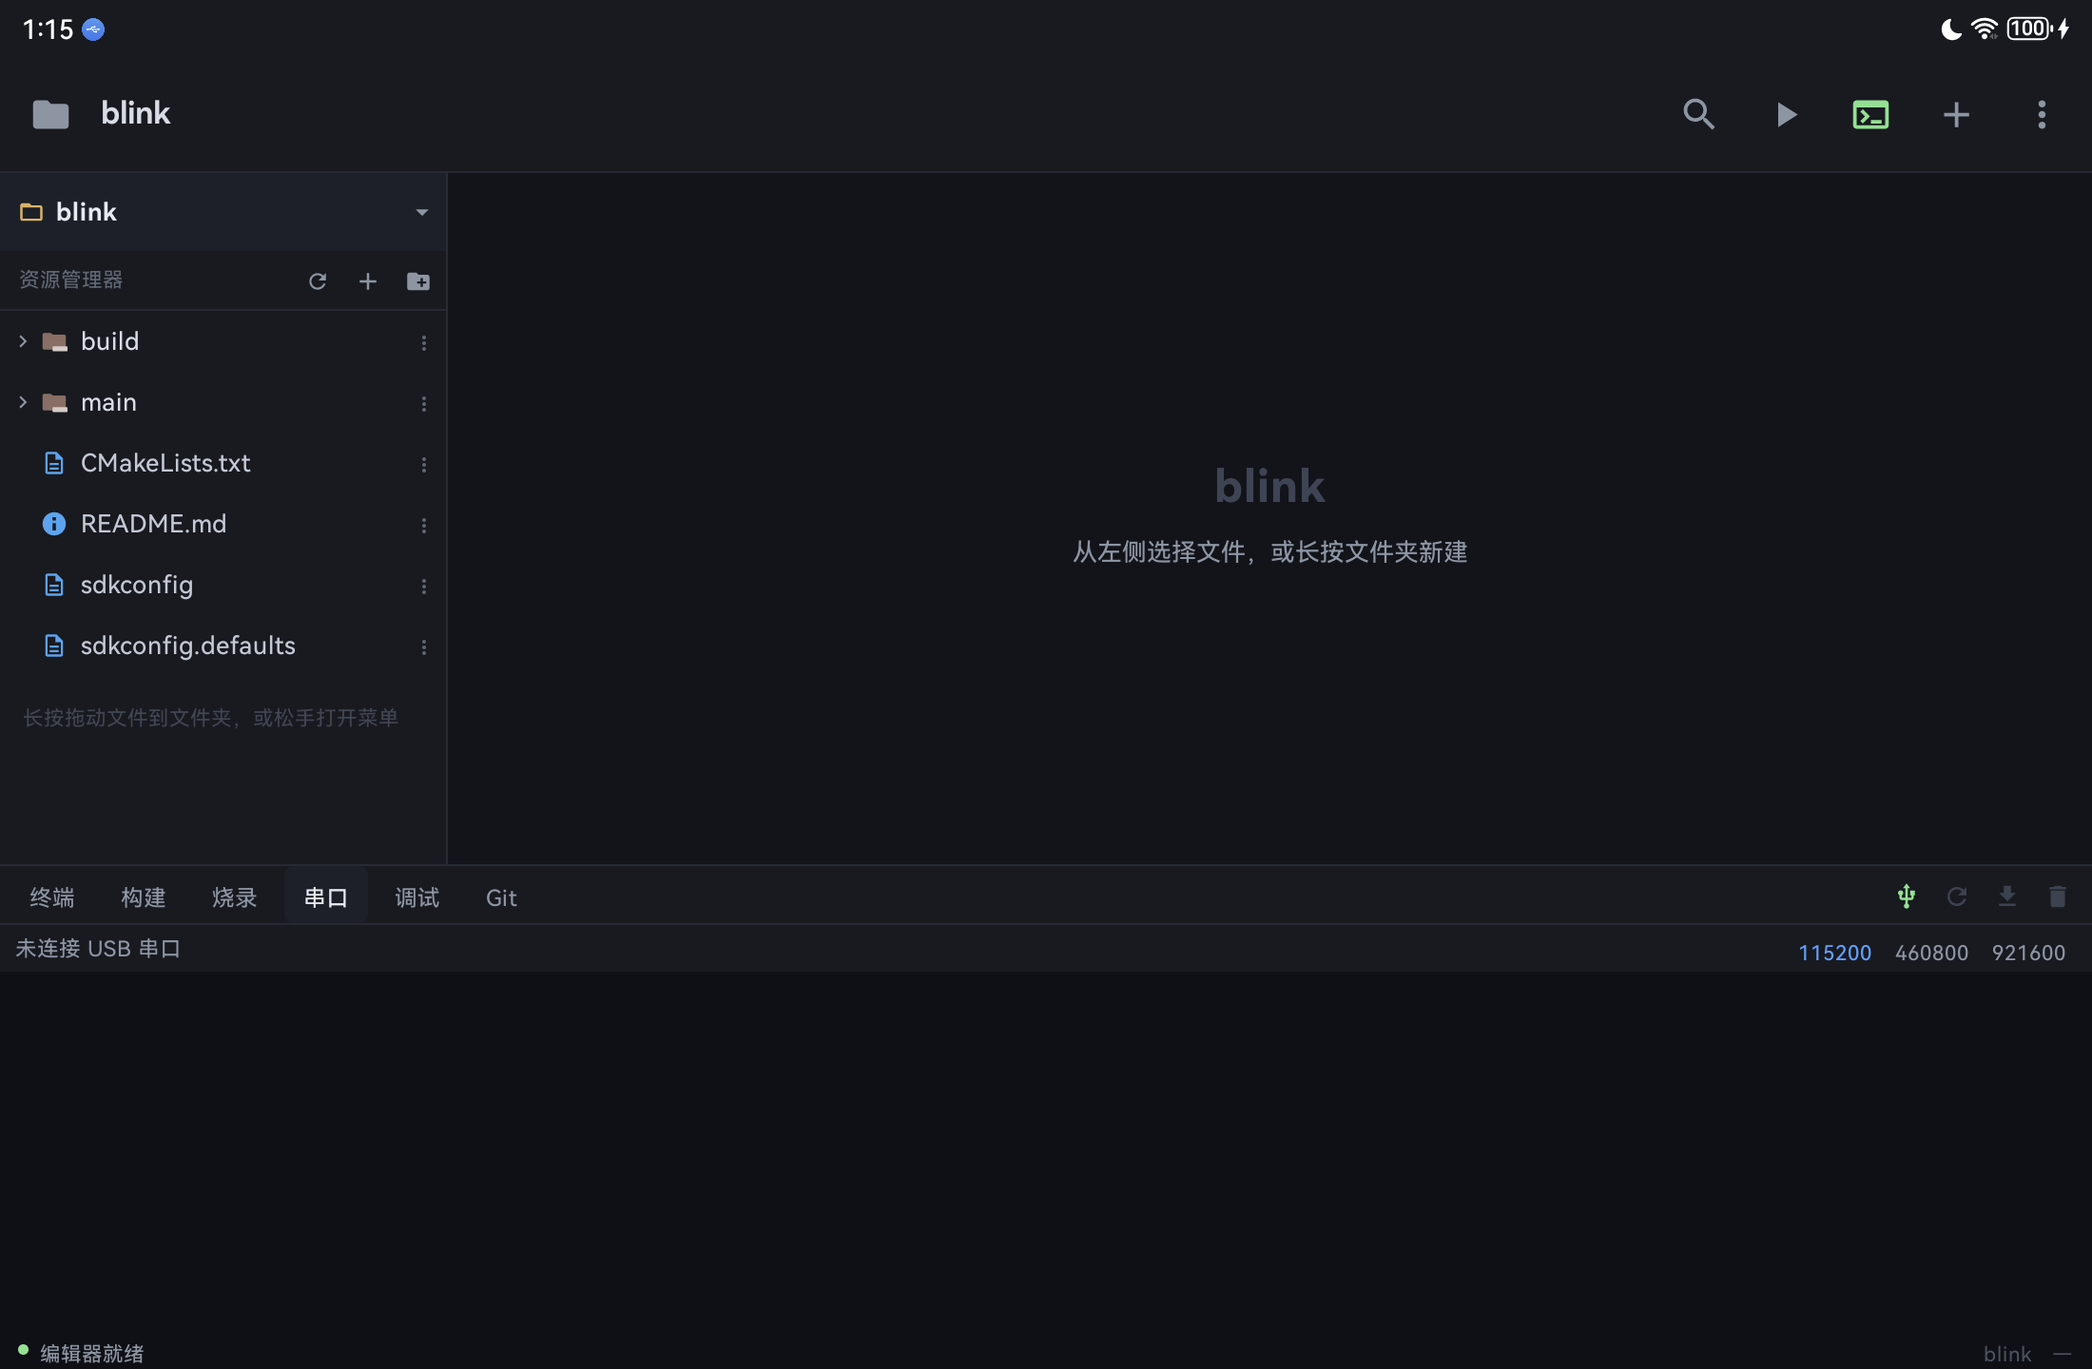
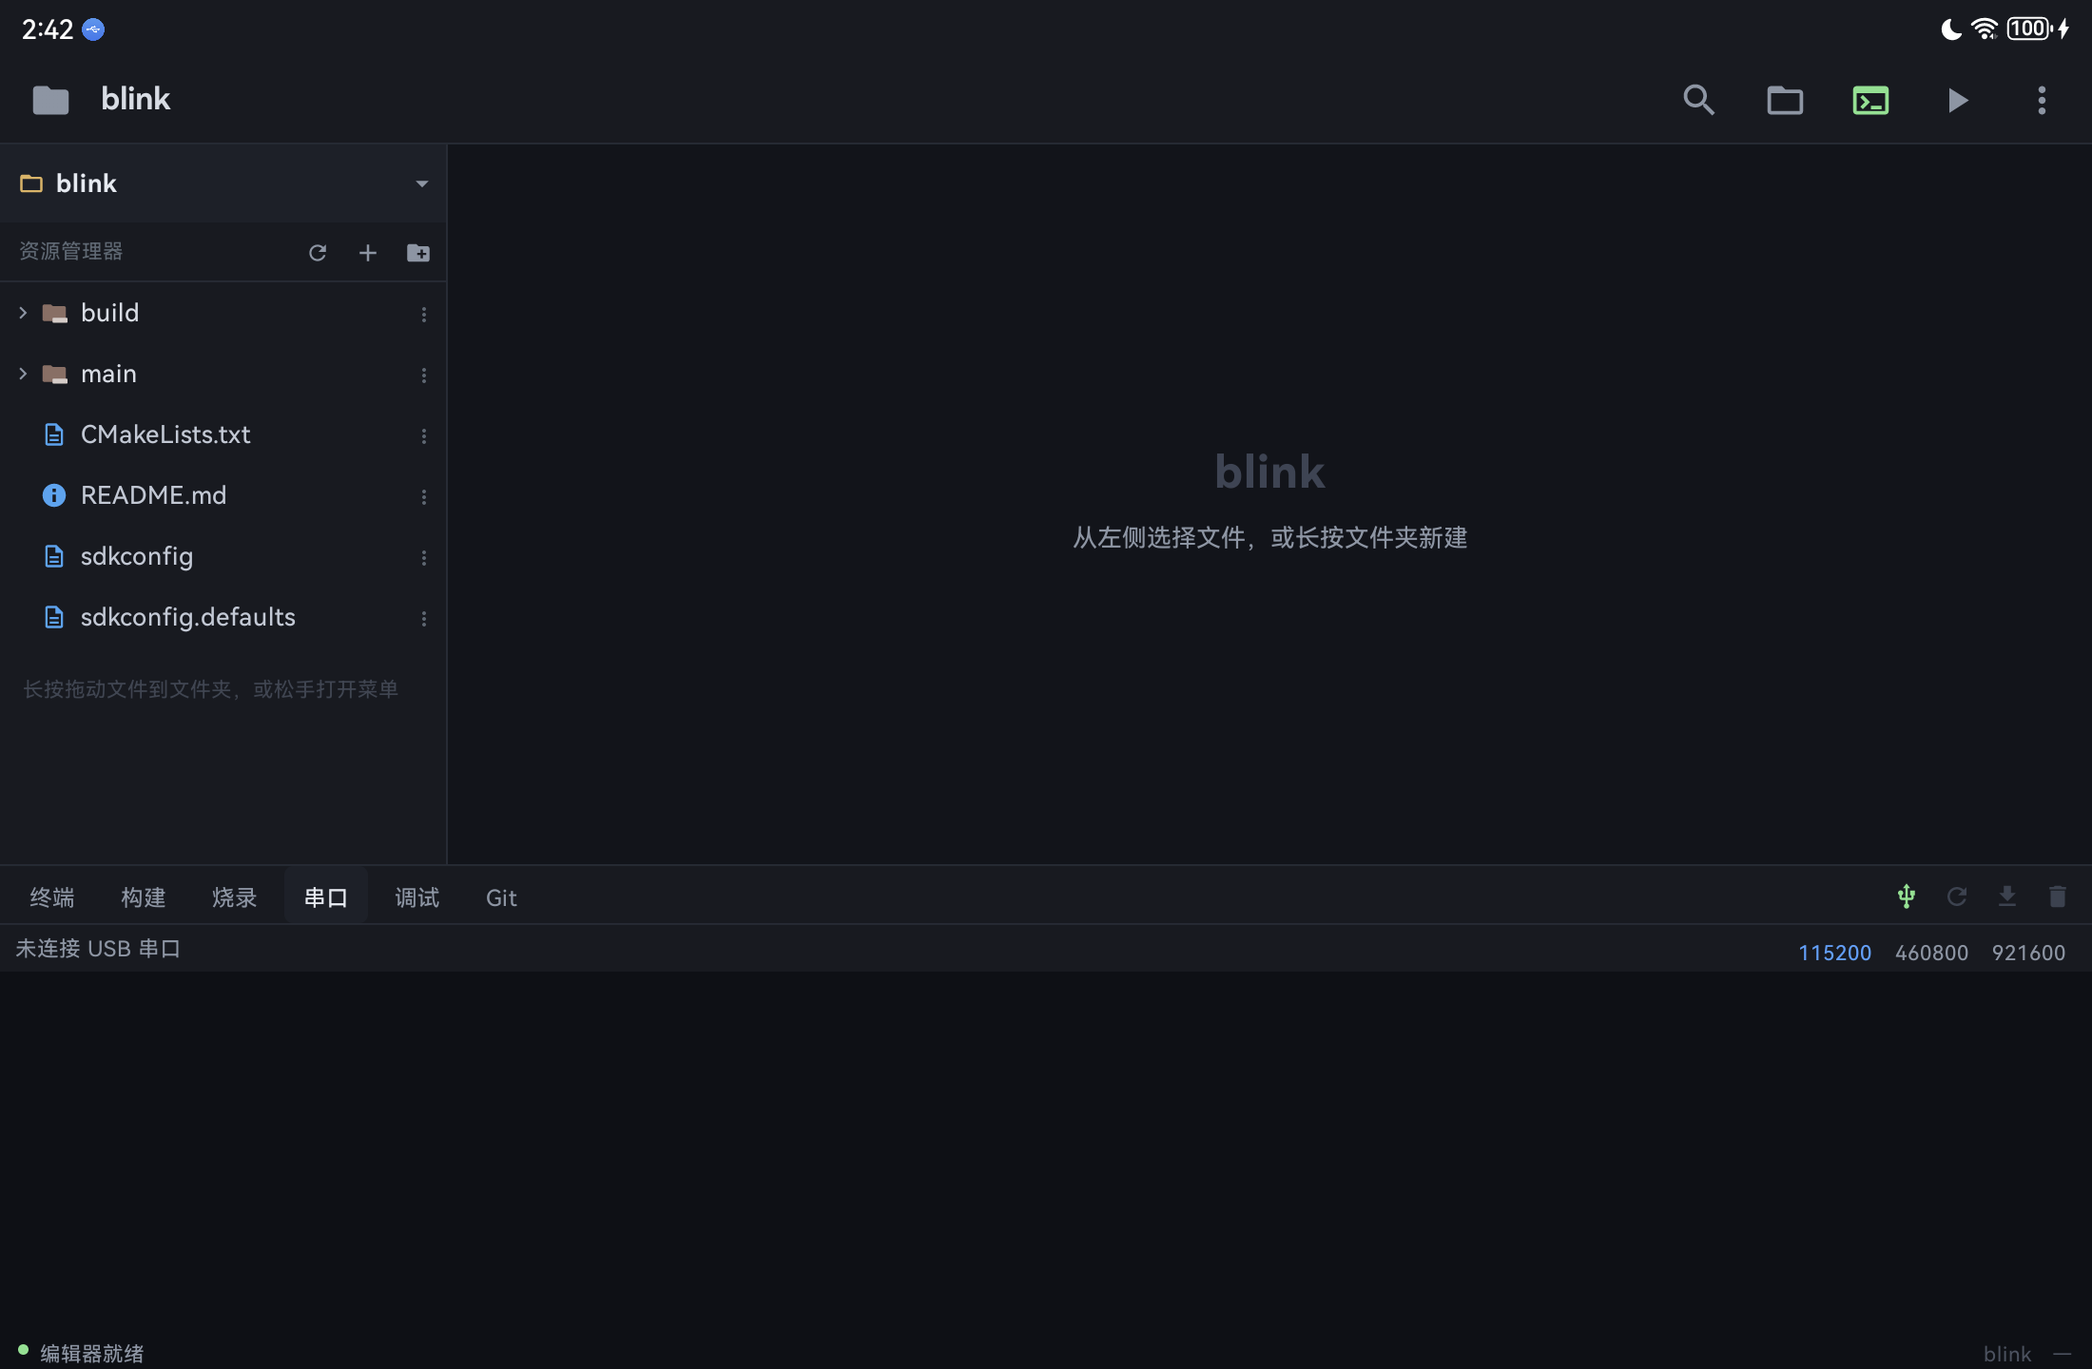
UI 对齐 CodePad v4.7：单行标题 / 48dp 顶栏 / 工程菜单 / 单行终端提示符
- TopAppBar 高度 48dp，标题改单行（文件名 + 未保存点 + 工程名），去掉第二行
- 新增工程菜单（📁）：工程列表 + 新建/导入/导出/重命名/删除工程；
  这些项从「更多」里移除，避免两处重复
- 顶栏动作顺序对齐 CodePad：搜索 · 工程 · 保存(有文件才出现) · 终端 · 构建/停止 · 更多；
  去掉顶栏的「＋ 新建文件」（仍在「更多」里）
- 终端提示符改成单行 ❯ ~/projects/xxx [git]（原两行 ╭─ ╰─ 框线会多出一个箭头）
- Dock 终端动作图标换成 DeleteSweep / RestartAlt，语义更清楚
- 工程模板 README 里过时的「右上角 🔨/⚡」改成「顶栏 ▶ / 底部烧录面板 ⚡」
- docs/HANDOFF.md 同步 UI 约定；截图全部按新界面重拍

diff --git a/app/src/main/java/com/espforge/ide/Ui.kt b/app/src/main/java/com/espforge/ide/Ui.kt
@@ -45,6 +45,8 @@ import androidx.compose.material.icons.filled.ArrowDropDown
 import androidx.compose.material.icons.filled.Close
 import androidx.compose.material.icons.filled.CreateNewFolder
 import androidx.compose.material.icons.filled.Delete
+import androidx.compose.material.icons.filled.DeleteSweep
+import androidx.compose.material.icons.filled.RestartAlt
 import androidx.compose.material.icons.filled.Description
 import androidx.compose.material.icons.filled.Folder
 import androidx.compose.material.icons.filled.FolderOpen
@@ -172,6 +174,7 @@ fun IdeScreen(c: IdeController) {
         snackbarHost = { SnackbarHost(snackbar) },
         topBar = {
             TopAppBar(
+                expandedHeight = 48.dp,
                 colors = TopAppBarDefaults.topAppBarColors(
                     containerColor = Panel,
                     titleContentColor = Color(0xFFD7DCE5),
@@ -310,34 +313,32 @@ fun IdeScreen(c: IdeController) {
                             }
                         }
                     } else {
-                        Column {
-                            Row(verticalAlignment = Alignment.CenterVertically) {
-                                Text(
-                                    text = c.active?.name ?: (c.project?.name ?: "EspForge"),
-                                    fontSize = 15.sp,
-                                    fontWeight = FontWeight.SemiBold,
-                                    maxLines = 1,
-                                    overflow = TextOverflow.Ellipsis,
+                        // 单行标题（对齐 CodePad v4.7）：文件名 + 未保存点 + 工程名
+                        Row(verticalAlignment = Alignment.CenterVertically) {
+                            Text(
+                                text = c.active?.name ?: (c.project?.name ?: "EspForge"),
+                                fontSize = 15.sp,
+                                fontWeight = FontWeight.SemiBold,
+                                maxLines = 1,
+                                overflow = TextOverflow.Ellipsis,
+                                modifier = Modifier.weight(1f, fill = false),
+                            )
+                            if (c.dirty) {
+                                Box(
+                                    Modifier
+                                        .padding(start = 6.dp)
+                                        .size(7.dp)
+                                        .background(Accent, RoundedCornerShape(50))
                                 )
-                                if (c.dirty) {
-                                    Box(
-                                        Modifier
-                                            .padding(start = 6.dp)
-                                            .size(7.dp)
-                                            .background(Accent, RoundedCornerShape(50))
-                                    )
-                                }
-                                if (c.active != null) {
-                                    Spacer(Modifier.width(8.dp))
-                                    Text(c.activeLang?.name ?: "", fontSize = 11.sp, color = Muted)
-                                }
                             }
-                            if (c.active != null) {
+                            if (c.active != null && !c.project?.name.isNullOrBlank()) {
+                                Spacer(Modifier.width(8.dp))
                                 Text(
                                     text = c.project?.name ?: "",
-                                    fontSize = 10.sp,
+                                    fontSize = 11.sp,
                                     color = Color(0xFF5C6773),
                                     maxLines = 1,
+                                    overflow = TextOverflow.Ellipsis,
                                 )
                             }
                         }
@@ -357,13 +358,58 @@ fun IdeScreen(c: IdeController) {
                             tint = if (c.searchOpen) Green else idle,
                         )
                     }
-                    if (c.building) {
-                        IconButton(onClick = { c.stopBuild() }) {
-                            Icon(Icons.Filled.Stop, contentDescription = "停止构建", tint = Green)
+                    // 工程菜单（对齐 CodePad v4.7）：工程列表 + 新建/导入/导出/重命名/删除
+                    Box {
+                        var projectOpen by remember { mutableStateOf(false) }
+                        IconButton(onClick = { projectOpen = true }) {
+                            Icon(
+                                Icons.Filled.FolderOpen,
+                                contentDescription = "工程",
+                                tint = if (projectOpen) Green else idle,
+                            )
                         }
-                    } else {
-                        IconButton(onClick = { c.build() }) {
-                            Icon(Icons.Filled.PlayArrow, contentDescription = "构建", tint = idle)
+                        DropdownMenu(expanded = projectOpen, onDismissRequest = { projectOpen = false }) {
+                            c.projects.forEach { p ->
+                                DropdownMenuItem(
+                                    text = {
+                                        Row(verticalAlignment = Alignment.CenterVertically) {
+                                            Icon(
+                                                if (p.id == c.project?.id) Icons.Filled.FolderOpen else Icons.Filled.Folder,
+                                                null,
+                                                tint = if (p.id == c.project?.id) Green else Muted,
+                                                modifier = Modifier.size(14.dp),
+                                            )
+                                            Spacer(Modifier.width(8.dp))
+                                            Text(p.name, fontSize = 13.sp)
+                                        }
+                                    },
+                                    onClick = {
+                                        projectOpen = false
+                                        if (p.id != c.project?.id) c.switchProject(p)
+                                    },
+                                )
+                            }
+                            HorizontalDivider(color = Stroke)
+                            DropdownMenuItem(
+                                text = { Text("新建工程…") },
+                                onClick = { projectOpen = false; c.openDialog("newProject") },
+                            )
+                            DropdownMenuItem(
+                                text = { Text("导入工程（zip）") },
+                                onClick = { projectOpen = false; c.startImport() },
+                            )
+                            DropdownMenuItem(
+                                text = { Text("导出当前工程（zip）") },
+                                onClick = { projectOpen = false; c.startExport() },
+                            )
+                            DropdownMenuItem(
+                                text = { Text("重命名当前工程…") },
+                                onClick = { projectOpen = false; c.openDialog("renameProject") },
+                            )
+                            DropdownMenuItem(
+                                text = { Text("删除当前工程…") },
+                                onClick = { projectOpen = false; c.openDialog("deleteProject") },
+                            )
                         }
                     }
                     // 保存只在打开了文件时出现，避免点了没反应
@@ -382,8 +428,14 @@ fun IdeScreen(c: IdeController) {
                             tint = if (c.showTerminal) Green else idle,
                         )
                     }
-                    IconButton(onClick = { c.openDialog("newFile", c.project?.dir) }) {
-                        Icon(Icons.Filled.Add, contentDescription = "新建文件", tint = idle)
+                    if (c.building) {
+                        IconButton(onClick = { c.stopBuild() }) {
+                            Icon(Icons.Filled.Stop, contentDescription = "停止构建", tint = Green)
+                        }
+                    } else {
+                        IconButton(onClick = { c.build() }) {
+                            Icon(Icons.Filled.PlayArrow, contentDescription = "构建", tint = idle)
+                        }
                     }
                     Box {
                         IconButton(onClick = { menuOpen = true }) {
@@ -418,18 +470,6 @@ fun IdeScreen(c: IdeController) {
                             DropdownMenuItem(
                                 text = { Text("选择目标芯片…（" + c.chipLabel() + "）") },
                                 onClick = { menuOpen = false; c.openDialog("chip") },
-                            )
-                            DropdownMenuItem(
-                                text = { Text("导出工程（zip）") },
-                                onClick = { menuOpen = false; c.startExport() },
-                            )
-                            DropdownMenuItem(
-                                text = { Text("导入工程（zip）") },
-                                onClick = { menuOpen = false; c.startImport() },
-                            )
-                            DropdownMenuItem(
-                                text = { Text("新建工程") },
-                                onClick = { menuOpen = false; c.openDialog("newProject") },
                             )
                             DropdownMenuItem(
                                 text = { Text("ESP-IDF 资源包…") },
@@ -981,8 +1021,8 @@ private fun BottomDock(c: IdeController, panelHeight: Int) {
             // 每个 Tab 的右侧动作统一：28dp 图标、16dp、只有图标没有文字，
             // 主操作在左、危险操作(关闭/断开/停止)在右且用红色。
             if (c.bottomTab == TERMINAL_TAB) {
-                DockAction(Icons.Filled.Delete, "清屏") { c.clearTerminal() }
-                DockAction(Icons.Filled.Refresh, "重启会话") { c.restartTerminal() }
+                DockAction(Icons.Filled.DeleteSweep, "清屏") { c.clearTerminal() }
+                DockAction(Icons.Filled.RestartAlt, "重启会话") { c.restartTerminal() }
                 DockAction(Icons.Filled.Close, "关闭面板") { c.showTerminal = false }
             } else if (c.bottomTab == BUILD_TAB) {
                 DockAction(Icons.Filled.PlayArrow, "构建", Green) { c.build() }

diff --git a/app/src/main/java/com/espforge/ide/IdeController.kt b/app/src/main/java/com/espforge/ide/IdeController.kt
@@ -1284,8 +1284,7 @@ class IdeController(private val activity: MainActivity) {
             |  esac
             |}
             |
-            |PS1="${'$'}{__esc}[38;5;39m╭─${'$'}{__esc}[0m ${'$'}{__esc}[38;5;244m\${'$'}(date +%H:%M)${'$'}{__esc}[0m ${'$'}{__esc}[38;5;81m${'$'}{CODEPAD_PROJECT}${'$'}{__esc}[0m ${'$'}{__esc}[38;5;250m\${'$'}(__cp_path)${'$'}{__esc}[0m${'$'}{__esc}[38;5;36m\${'$'}(__cp_git)${'$'}{__esc}[0m
-            |${'$'}{__esc}[38;5;41m╰─❯${'$'}{__esc}[0m "
+            |PS1="${'$'}{__esc}[38;5;41m❯${'$'}{__esc}[0m ${'$'}{__esc}[38;5;250m\${'$'}(__cp_path)${'$'}{__esc}[0m${'$'}{__esc}[38;5;36m\${'$'}(__cp_git)${'$'}{__esc}[0m "
             |
             |alias ls='ls --color=auto'
             |alias ll='ls -l'

diff --git a/app/src/main/java/com/espforge/ide/fs/Templates.kt b/app/src/main/java/com/espforge/ide/fs/Templates.kt
@@ -86,9 +86,9 @@ object Templates {
 
         ## 在这个 App 里
 
-        - 右上角 🔨 构建：等价于 `idf.py build`
-        - 右上角 ⚡ 烧录：等价于 `idf.py -p <串口> flash`
-        - 串口面板：等价于 `idf.py monitor`
+        - 顶栏 ▶ 构建：等价于 `idf.py build`
+        - 底部「烧录」面板的 ⚡：等价于 `idf.py -p <串口> flash`
+        - 底部「串口」面板：等价于 `idf.py monitor`
 
         ## 在电脑上
 

diff --git a/docs/HANDOFF.md b/docs/HANDOFF.md
@@ -254,14 +254,21 @@ PREFIX=$P/tools/cmake             # Termux 版 cmake 靠它读 include/android/a
 - 底部 Dock **永远保持挂载**：不要按 `searchOpen`/键盘把高度收 0、更不要从组合里摘掉，
   否则终端 WebView 反复 attach，点「终端」标签直接崩。
 - 终端 WebView 只在「终端」页挂载（其它页挂载会盖住构建/烧录面板，`AndroidView` 是原生层压不住）。
-- 顶栏：图标统一灰色剪影，当前激活项变绿。搜索框是顶栏内联的 300dp 圆角长条（靠右贴图标），
+- 顶栏（对齐 CodePad v4.7）：高度 48dp，**单行标题**（文件名 + 未保存点 + 工程名，同一行）。
+  动作顺序固定：搜索 · 工程菜单(📁) · 保存（仅打开文件时出现）· 终端 · 构建/停止 · 更多。
+  搜索框是顶栏内联的圆角长条（靠右贴图标，打开搜索时替换标题），
   结果用 `Popup` 浮层（左对齐、零动画、14dp 圆角），不要用 `DropdownMenu`（有入场动画会瞬间盖住输入框）。
-- **顶栏只放全局动作**：资源管理器(☰)、搜索、构建/停止、保存（只在打开了文件时出现）、终端、新建文件、更多。
+- **工程相关动作都在工程菜单里**：工程列表、新建工程…、导入工程（zip）、导出当前工程（zip）、
+  重命名当前工程…、删除当前工程…；「更多」里不要再重复这几项。
+- **顶栏只放全局动作**：资源管理器(☰)、搜索、工程菜单、保存、终端、构建/停止、更多。
   烧录/串口/调试属于底部面板，不要再放回顶栏（没硬件时点了只会弹提示，看起来像坏按钮）。
+  顶栏不再有「＋ 新建文件」图标（在「更多」里）。
 - **底部 Dock 的动作按钮统一用 `DockAction`**：28dp 按钮 + 16dp 图标、只有图标没有文字、右对齐；
   顺序是「主操作在左、危险操作(关闭/断开/停止)在右且红色」，不可用的按钮传 `enabled = false` 变灰。
   面板内部不要再放和头部重复的文字按钮（以前烧录页既有 ⚡ 又有「烧录」「扫描串口」文字按钮，已去掉）。
 - 调试页目前只是说明页（串口 gdbstub 还没接线），不放只会弹「还没接入」的按钮。
+- 终端提示符是**单行** `❯ ~/projects/xxx [git分支]`（对齐 CodePad v4.7），
+  不要再改回两行 `╭─ ╰─` 框线（会多出一个箭头、占两行高度）。
 - 构建面板的工具栏**只放图标、不带中文文字标签**（构建/清理/自检/停止 依次为 ▶ ⟳ 🔧 ■）；
   面板第一行只剩「芯片 · 状态」文字，不要再加文字按钮。
 

diff --git a/README.md b/README.md
@@ -23,9 +23,13 @@
 |---|---|
 | ![](docs/screenshot-build-success.png) | ![](docs/screenshot-terminal-keyboard.png) |
 
-| 烧录面板 | 串口面板 |
+| 工程菜单 | 烧录面板 |
 |---|---|
-| ![](docs/screenshot-dock-flash.png) | ![](docs/screenshot-dock-serial.png) |
+| ![](docs/screenshot-project-menu.png) | ![](docs/screenshot-dock-flash.png) |
+
+| 串口面板 | 全局搜索 |
+|---|---|
+| ![](docs/screenshot-dock-serial.png) | ![](docs/screenshot-keyboard-search.png) |
 
 ## 为什么这件事不容易
 
